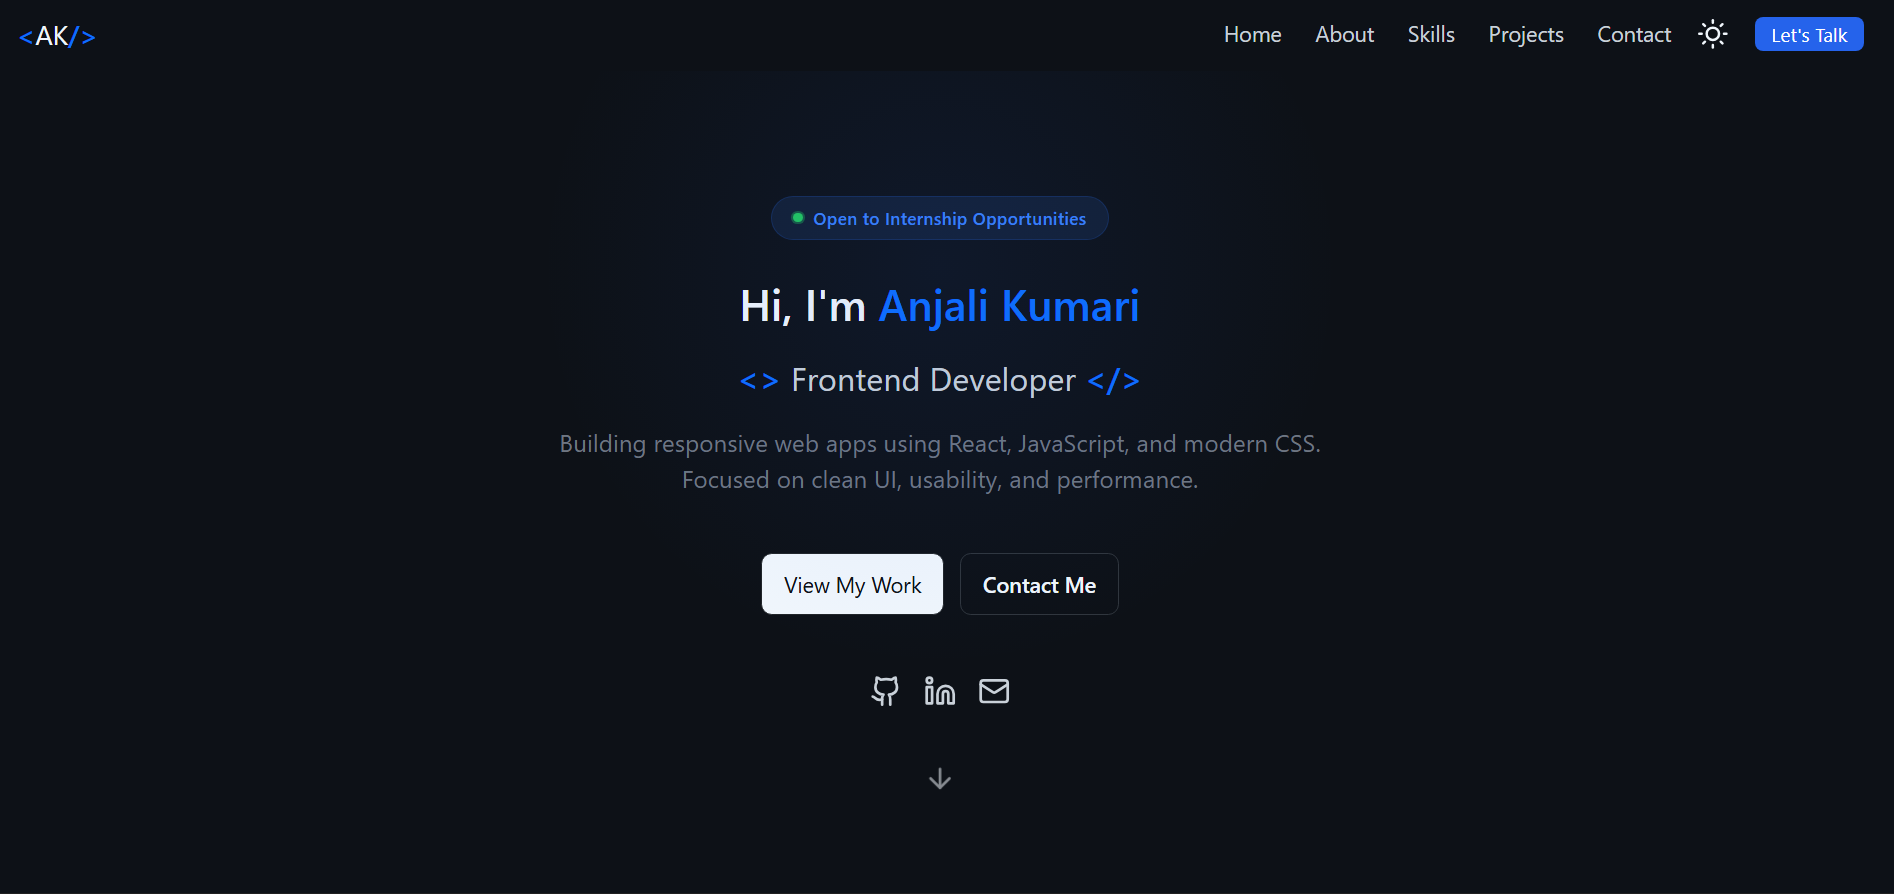
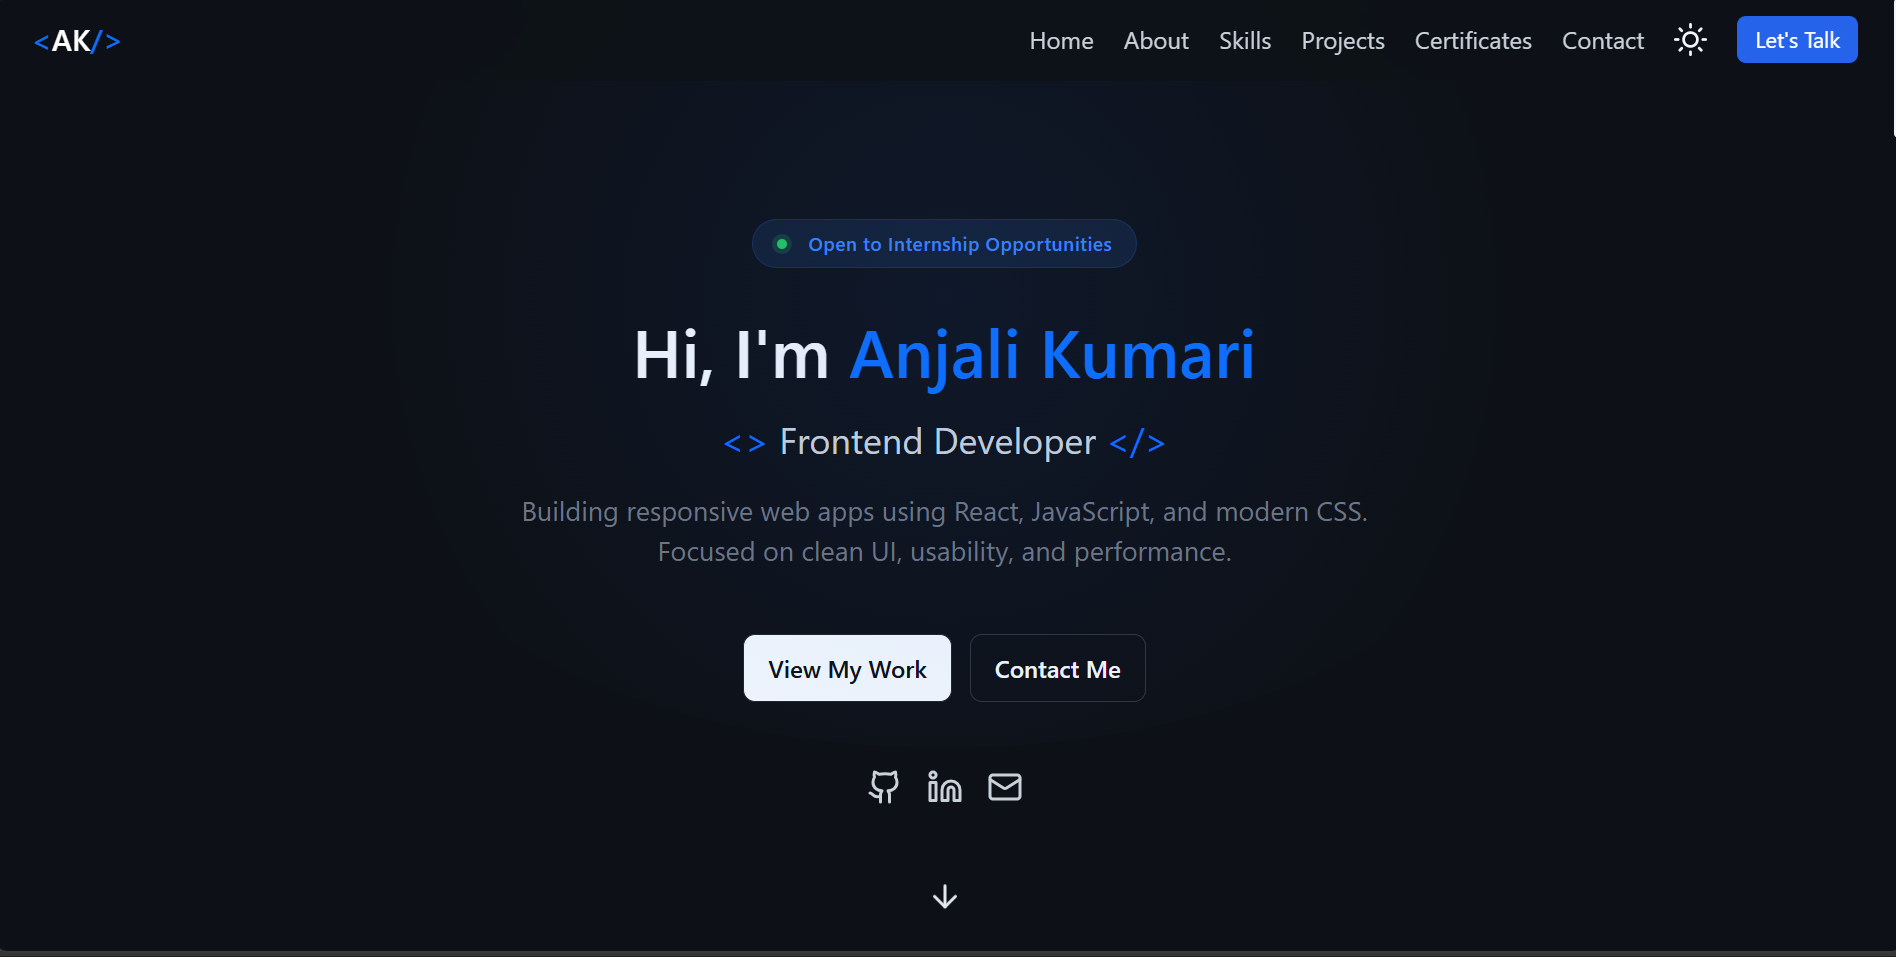
fixex bg color issue in contact box and updated project images

diff --git a/css/base/variables.css b/css/base/variables.css
@@ -5,7 +5,7 @@
   --primary-light:  #eff6ff;
   --primary-glow:   #2563eb2e;
   /* --accent:         #06b6d4; */
-  --accent: #eff6ff;
+  --accent: #ccdbfa86;
   /* custom color */
   --black-to-white : var(--black);
   --black-to-blue : black;
@@ -76,6 +76,7 @@
   --primary-dark:   #2563eb;
   --primary-light:  rgba(59,130,246,0.12);
   --primary-glow:   rgba(59,130,246,0.22);
+  --accent: #eff6ff;
   /* custom colors */
   --black-to-blue : var(--primary);
   --black-to-white : white;